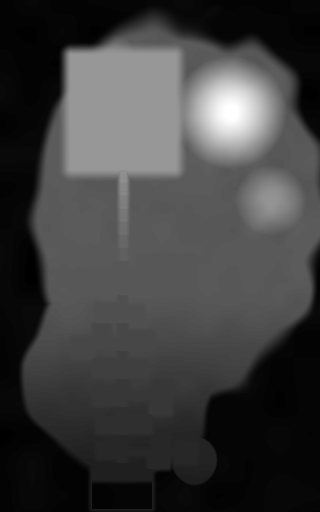
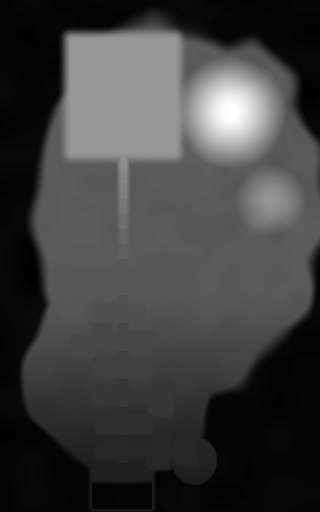
fix(foot-of-the-mountain): the castle road ramps are ten long, so each run lands on level floor

Changed region(s): [[0.1875, 0.0312, 0.5938, 0.125], [0.1875, 0.3125, 0.5938, 0.3438]]

diff --git a/campaigns/foot-of-the-mountain/design/generator/plan.py b/campaigns/foot-of-the-mountain/design/generator/plan.py
@@ -186,7 +186,7 @@ seam("node/square", "node/inn", "west", 0, 0, "contact",
      "the inn's front yard opens onto the square")
 
 # ----------------------------------------------------------- the castle road
-ROAD_W, RAMP_L, LAND_L = 5, 8, 3
+ROAD_W, RAMP_L, LAND_L = 5, 10, 3
 prev = "node/square"
 floor = 92
 for k in range(1, 9):
